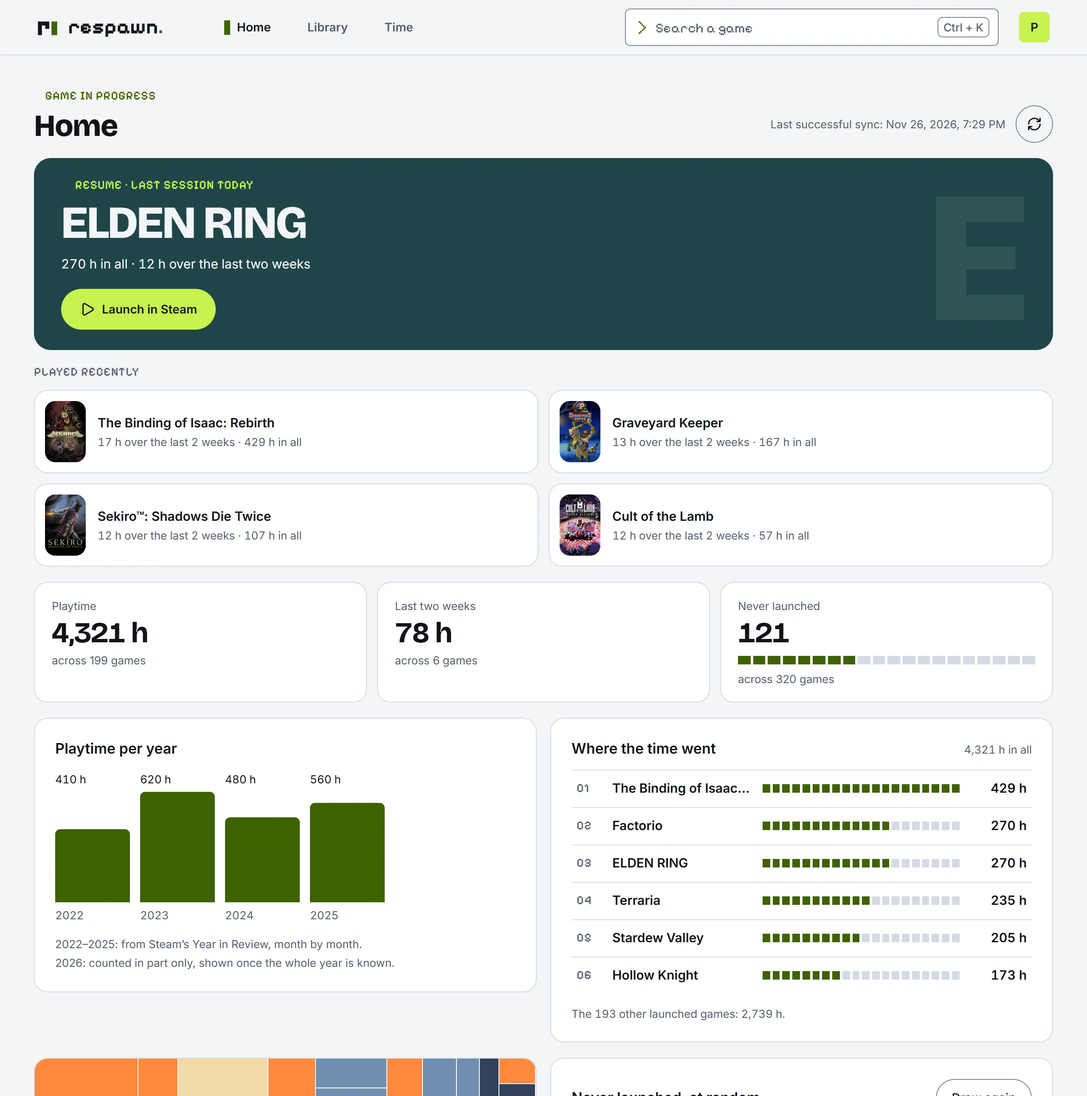
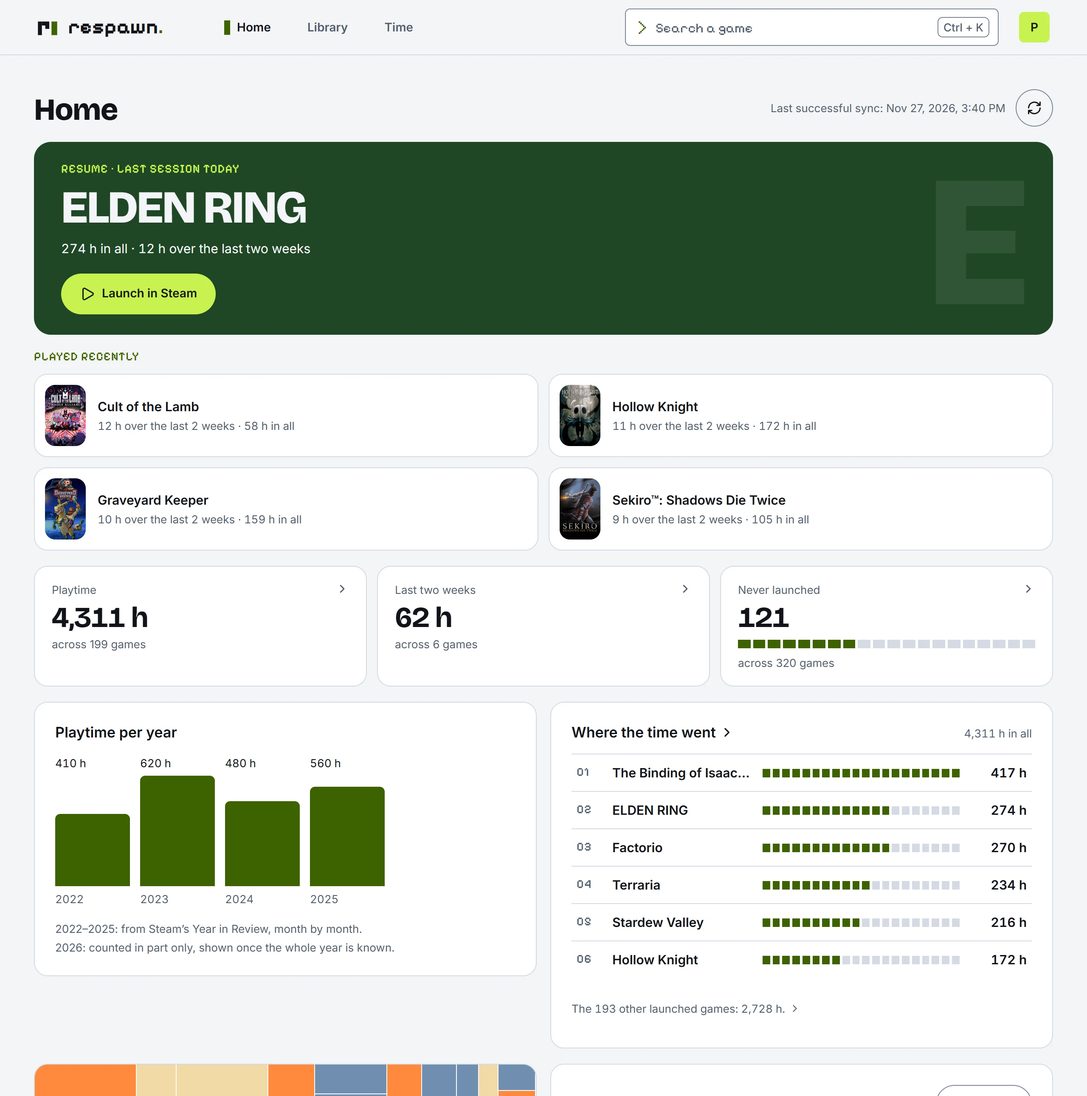
docs: the screenshots after the home's pass, and the docs after the covers' choice
The six README screenshots are retaken on the demo library with the edge image of 7c6c67f: the labels
without their prompt, the figures and the ranking with their chevron. The README says IGDB's covers and
the choice between them, the game's pages on Steam and IGDB, and the data directory's covers by source.
The front's README gains, per screen, where the home's figures, ranking and days lead, the library's
filter and order on its address, the game page's choice of cover and the credit under the settings.
CONTRIBUTING.md says the cover choice in the core and IGDB's image host in its connector.

diff --git a/frontend/README.md b/frontend/README.md
@@ -21,17 +21,17 @@ npm run gen:api     # the API's types, from openapi.json
 
 The image builds this front and the API process serves it; the router decides the screen from the address.
 
-| Address        | Screen                                                                                                                                                                                                                                                                                                                                                                                                                                                                                                                                                                                                                                                                                                                                                                                                                                                                | Needs      |
-| -------------- | --------------------------------------------------------------------------------------------------------------------------------------------------------------------------------------------------------------------------------------------------------------------------------------------------------------------------------------------------------------------------------------------------------------------------------------------------------------------------------------------------------------------------------------------------------------------------------------------------------------------------------------------------------------------------------------------------------------------------------------------------------------------------------------------------------------------------------------------------------------------- | ---------- |
-| `/sign-in`     | sign in, with a local account or through one of the instance's providers, or create an account where the instance allows it; says what came of a sign-in through a provider that opened no session                                                                                                                                                                                                                                                                                                                                                                                                                                                                                                                                                                                                                                                                    | no session |
-| `/`            | the home, under the header, its search (titles suggested from two letters, each leading to its game's page, and what was typed to `/library?q=`; a field where there is room, a button under it), its tabs (a bar at the foot of the window on a phone) and its account menu (the way to `/account`, the settings, kept on the account at each pick, the providers linked or to link, the sign-out): the way to link a Steam account, where its sync stands, and the library at a glance, made in the browser of the games it holds (the game to resume, the ones played lately, the figures, the most played and their time map, which leads to `/time`, a draw among the never launched), of the years the API counts (the time played per whole year; a year counted in part is named, not drawn) and of the history since the first sync (the latest days played) | a session  |
-| `/library`     | the library as covers or as a list, the choice kept in this browser (covers until another is picked): every game with its playtime (and in the list its last two weeks and its last session), searched by title (`?q=`, which the header's search writes and which stays on the address), filtered and sorted in the browser, which holds the whole of it; a hundred games at a time, each cover asked for only as it comes near the screen                                                                                                                                                                                                                                                                                                                                                                                                                           | a session  |
-| `/time`        | the time map: the 30 most played games as tiles, each as large as its playtime and coloured by its last session, the other launched games in a band under them, not to scale; a tile pressed says its time, its share of the whole and its last session, and the band leads to `/library`; the home's map leads here                                                                                                                                                                                                                                                                                                                                                                                                                                                                                                                                                  | a session  |
-| `/games/:id`   | the page of a game, reached from wherever a game is shown and from the search, with the way back to where it was reached from: its cover, its time, its rank, this year and the last two weeks, its months since 2022 as a calendar and, for a month, the other games played then; "Launch in Steam" on a computer, and taking a game Steam no longer lists out of the library                                                                                                                                                                                                                                                                                                                                                                                                                                                                                        | a session  |
-| `/account`     | the account, reached from the account menu: who is signed in, and each linked Steam account with where its sync stands, a reading on request, the owner's own key (given, replaced or taken away; never shown) and unlinking, asked twice since it forgets what was read; the way to link an account, which comes back here                                                                                                                                                                                                                                                                                                                                                                                                                                                                                                                                           | a session  |
-| `/foundations` | the type styles and every base component; in the development build only (`dev-routes.ts`), not in the image                                                                                                                                                                                                                                                                                                                                                                                                                                                                                                                                                                                                                                                                                                                                                           | nothing    |
-| `/docs`        | the API's description, drawn by Swagger UI; not an Angular screen                                                                                                                                                                                                                                                                                                                                                                                                                                                                                                                                                                                                                                                                                                                                                                                                     | nothing    |
-| anything else  | says that there is no such screen                                                                                                                                                                                                                                                                                                                                                                                                                                                                                                                                                                                                                                                                                                                                                                                                                                     | nothing    |
+| Address        | Screen                                                                                                                                                                                                                                                                                                                                                                                                                                                                                                                                                                                                                                                                                                                                                                                                                                                                                                                                                                                                                                                                                                                                                                                              | Needs      |
+| -------------- | --------------------------------------------------------------------------------------------------------------------------------------------------------------------------------------------------------------------------------------------------------------------------------------------------------------------------------------------------------------------------------------------------------------------------------------------------------------------------------------------------------------------------------------------------------------------------------------------------------------------------------------------------------------------------------------------------------------------------------------------------------------------------------------------------------------------------------------------------------------------------------------------------------------------------------------------------------------------------------------------------------------------------------------------------------------------------------------------------------------------------------------------------------------------------------------------------- | ---------- |
+| `/sign-in`     | sign in, with a local account or through one of the instance's providers, or create an account where the instance allows it; says what came of a sign-in through a provider that opened no session                                                                                                                                                                                                                                                                                                                                                                                                                                                                                                                                                                                                                                                                                                                                                                                                                                                                                                                                                                                                  | no session |
+| `/`            | the home, under the header, its search (titles suggested from two letters, each leading to its game's page, and what was typed to `/library?q=`; a field where there is room, a button under it), its tabs (a bar at the foot of the window on a phone) and its account menu (the way to `/account`, the settings, kept on the account at each pick, the providers linked or to link, the sign-out, and the sources the instance credits, IGDB once it has access): the way to link a Steam account, where its sync stands, and the library at a glance, made in the browser of the games it holds (the game to resume, the ones played lately, the figures, each leading to `/library` on the games it counts, the most played, which lead to the whole ranking in `/library`, and their time map, which leads to `/time`, a draw among the never launched), of the years the API counts (the time played per whole year; a year counted in part is named, not drawn) and of the history since the first sync (the latest days played, each game leading to its page, and every game of a day on request); what leads somewhere fills on hover, and what leads to another screen carries a chevron | a session  |
+| `/library`     | the library as covers or as a list, the choice kept in this browser (covers until another is picked): every game with its playtime (and in the list its last two weeks and its last session), searched by title (`?q=`, which the header's search writes and which stays on the address), filtered and sorted in the browser, which holds the whole of it, the filter and the order on the address (`?filter=`, `?sort=`, the first ones left out, rewritten in place); a title searched from the header writes neither, and shows every game that bears it; a hundred games at a time, each cover asked for only as it comes near the screen                                                                                                                                                                                                                                                                                                                                                                                                                                                                                                                                                       | a session  |
+| `/time`        | the time map: the 30 most played games as tiles, each as large as its playtime and coloured by its last session, the other launched games in a band under them, not to scale; a tile pressed says its time, its share of the whole and its last session, and the band leads to `/library`; the home's map leads here                                                                                                                                                                                                                                                                                                                                                                                                                                                                                                                                                                                                                                                                                                                                                                                                                                                                                | a session  |
+| `/games/:id`   | the page of a game, reached from wherever a game is shown and from the search, with the way back to where it was reached from: its cover, which opens the choice between Steam's and IGDB's when the game has both, its time, its rank, this year and the last two weeks, its months since 2022 as a calendar and, for a month, the other games played then; its pages on Steam and IGDB, "Launch in Steam" on a computer, and taking a game Steam no longer lists out of the library                                                                                                                                                                                                                                                                                                                                                                                                                                                                                                                                                                                                                                                                                                               | a session  |
+| `/account`     | the account, reached from the account menu: who is signed in, and each linked Steam account with where its sync stands, a reading on request, the owner's own key (given, replaced or taken away; never shown) and unlinking, asked twice since it forgets what was read; the way to link an account, which comes back here                                                                                                                                                                                                                                                                                                                                                                                                                                                                                                                                                                                                                                                                                                                                                                                                                                                                         | a session  |
+| `/foundations` | the type styles and every base component; in the development build only (`dev-routes.ts`), not in the image                                                                                                                                                                                                                                                                                                                                                                                                                                                                                                                                                                                                                                                                                                                                                                                                                                                                                                                                                                                                                                                                                         | nothing    |
+| `/docs`        | the API's description, drawn by Swagger UI; not an Angular screen                                                                                                                                                                                                                                                                                                                                                                                                                                                                                                                                                                                                                                                                                                                                                                                                                                                                                                                                                                                                                                                                                                                                   | nothing    |
+| anything else  | says that there is no such screen                                                                                                                                                                                                                                                                                                                                                                                                                                                                                                                                                                                                                                                                                                                                                                                                                                                                                                                                                                                                                                                                                                                                                                   | nothing    |
 
 A screen is where the API, the router and the settings are injected (`pages/x/x.ts`, and `layout/shell.ts` for
 the header). What it draws is made of components that only take inputs and emit outputs: its own in

diff --git a/CONTRIBUTING.md b/CONTRIBUTING.md
@@ -121,10 +121,10 @@ and adapters around it.
 | `Modules/Accounts/Respawn.Accounts.Infrastructure` | outbound adapters: EF Core, ASP.NET Core Identity, sessions | its core, the shared kernel |
 | `Modules/Accounts/Respawn.Accounts.Api` | inbound adapter: the controllers of `/api/v1`, the session cookie, the sign-in through a provider (ASP.NET Core's OpenID Connect handler) | its core, the shared kernel |
 | `Modules/Accounts/Respawn.Accounts.Tests` | the tests of the module, which start the real app in-process | its module, the test support |
-| `Modules/Games/Respawn.Games` | the core: the catalogue, the libraries, the sync, the import of a store's yearly reviews, the covers, what IGDB says of each game, what is read back of them (one game as its owner sees it, the time played by year, by month and by game), and the ports they need | nothing; no package |
+| `Modules/Games/Respawn.Games` | the core: the catalogue, the libraries, the sync, the import of a store's yearly reviews, the covers and each account's choice among them, what IGDB says of each game, what is read back of them (one game as its owner sees it, the time played by year, by month and by game), and the ports they need | nothing; no package |
 | `Modules/Games/Respawn.Games.Infrastructure` | outbound adapters: EF Core, the encryption of the store keys users give (libsodium), and the files of the kept covers in the data directory | its core, the shared kernel |
 | `Modules/Games/Respawn.Games.Steam` | a connector: the Steam Web API behind the core's `ILibrarySource` and `IYearReviewSource`, and Steam's store and image host, asked with no key, behind `ICoverSource` | its core only |
-| `Modules/Games/Respawn.Games.Igdb` | a connector: IGDB, with the token Twitch gives the instance, behind the core's `IGameDataSource` (which IGDB games the games of a store are, and what IGDB says of those: genres, themes, summary, cover, durations) | its core only |
+| `Modules/Games/Respawn.Games.Igdb` | a connector: IGDB, with the token Twitch gives the instance, behind the core's `IGameDataSource` (which IGDB games the games of a store are, and what IGDB says of those: genres, themes, summary, cover, durations), and IGDB's image host, asked with no token, for the covers | its core only |
 | `Modules/Games/Respawn.Games.Api` | inbound adapter: the controllers of `/api/v1`, the schedules of the sync, of the import of the yearly reviews, of the covers' places and of what IGDB says of the games (four timers in the app's process), and "Sign in through Steam", whose exchange with Steam (the browser sent there, its answer checked with it) is a library's | its core, the shared kernel |
 | `Modules/Games/Respawn.Games.Tests` | the tests of the module, which start the real app in-process | its module, the test support |
 | `Respawn.Tests` | the tests of the host and of the solution as a whole: the runtime contract, the database connection, the architecture rules | everything |

diff --git a/README.md b/README.md
@@ -61,11 +61,13 @@ and where your time went.
 - **The library** as covers or as a list, each browser keeping its own choice, searched, filtered (launched,
   recent, never launched) and sorted, the filter and the order kept on its address; **the Time tab**, the time
   map in full.
-- **Steam's covers** wherever a game is shown, asked of Steam once and kept by the instance when it has a
-  data directory; a cover is asked for only as it comes near the screen.
+- **Covers** wherever a game is shown: Steam's, IGDB's where Steam has none, and for each account the one
+  it chose on the game's page when a game has both; asked of their source once and kept by the instance when
+  it has a data directory, and asked for only as they come near the screen.
 - **The page of a game**, reached from wherever a game is shown and from the search: its time, its rank, this
   year and the last two weeks, its months since 2022 as a calendar, and for a month the other games played
-  then; "Launch in Steam" on a computer, and taking a game Steam no longer lists out of the library.
+  then; its pages on Steam and IGDB, "Launch in Steam" on a computer, and taking a game Steam no longer lists
+  out of the library.
 - **Accounts**: local accounts (the first one is the administrator), or sign-in through any OpenID Connect
   provider; the language (French or English), the theme and the character of the labels kept on the
   account; the account screen with its linked Steam accounts, a reading on request, your own key and
@@ -158,9 +160,9 @@ up after five seconds.
 ### The data directory
 
 `RESPAWN_DATA_DIR` is the only place, besides `/tmp`, where the app writes. Today it holds the covers: each
-one is fetched from Steam the first time it is shown, written there, and served from that file afterwards.
-The library then loads its covers from the instance itself, and a cover is still shown when Steam does not
-answer or no longer has it.
+one is fetched from its source (Steam, or IGDB) the first time it is shown, written there, and served from
+that file afterwards. The library then loads its covers from the instance itself, and a cover is still shown
+when its source does not answer or no longer has it.
 
 How to set it:
 
@@ -183,7 +185,7 @@ What the app does with it:
   it is (every 30 days); a changed cover is a new file, and the old one is removed once no game shows it.
 - **Losing it** loses nothing else: the database holds everything the app knows, and the covers are fetched
   again as they are asked for. A backup is optional.
-- **Without it**, nothing is kept: each cover is fetched from Steam at each request, and the browser keeps
+- **Without it**, nothing is kept: each cover is fetched from its source at each request, and the browser keeps
   it for a week.
 
 ### The database, when it is not there
